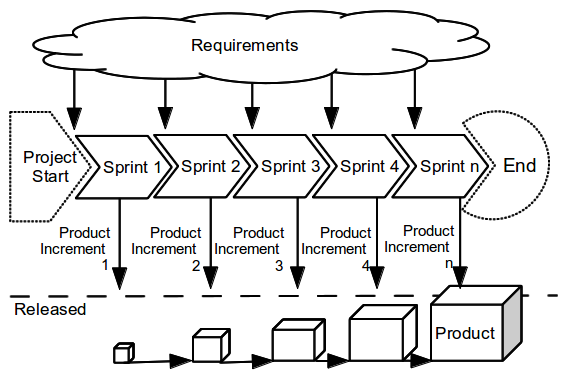
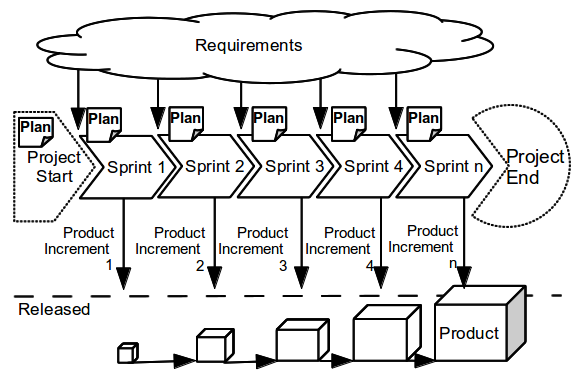
Update text in project managin chapter

Changed region(s): [[0.0, 0.0, 0.9947, 0.9894], [0.3316, 0.0873, 0.5426, 0.1455]]

diff --git a/content/scaling.tex b/content/scaling.tex
@@ -25,10 +25,21 @@ Para terminar una PBI o historia de usuario hay en la mayoría de los casos la n
 
 La ventaja de utilizar equipos de componentes es que es más fácil asegurar una determinada arquitectura del sistema. Por ejemplo si se quiere asegurar una Arquitectura SOA o una de Microservicios que está orientada a componentes. Esta idea está, entre otras cosas, basada en la "Ley de Conway"\footnote{Conway's Law \cite{Conway-1968} no es exactamente una ley, sino que es más bien una observación que Conway publicó en 1968.} que sugiere que las organizaciones pueden replicar su arquitectura en los productos que ellas producen \cite{Martin-Fowler-2014}. 
 
-Por otro lado, puede tener como desventaja que las personas se pueden especializar sólo en pequeñas partes del sistema y el conocimiento global sobre el sistema en su conjunto podría perderse \cite{Scrum-Institute-2015}. En este caso podría tener lugar una optimización local, ya que el equipo a veces puede tomar decisiones que están optimizados para el componente individual, pero las mejores soluciones desde una perspectiva del sistema total podrían haber sido desestimadas u oviadas.
+Por otro lado, puede tener como desventaja que las personas se pueden especializar sólo en pequeñas partes del sistema y el conocimiento global sobre el sistema en su conjunto podría perderse \cite{Scrum-Institute-2015}. En este caso podría tener lugar una optimización local, ya que el equipo a veces puede tomar decisiones que están optimizadas para el componente individual, pero las mejores soluciones desde una perspectiva del sistema total podrían haber sido desestimadas u oviadas.
+
+\section{Equipos mixtos}
+
+Tambien es posible la configuración de equipos mixtos que son la combinación de equipos de características y de componentes (ver figura \ref{fig:ScrumTeamsMix}).
+
+\begin{figure}[h]
+  \centering
+  \includegraphics[width=0.99\textwidth]{ScrumTeamsMix}
+  \caption{Ejemplo de equipos mixtos.}
+  \centering
+  \label{fig:ScrumTeamsMix} %\ref{fig:ScrumTeamsMix}
+\end{figure}
 
 \section{Scrum de Scrum}
 
 Scrum de Scrum es una forma de organización y técnica para escalar Scrum a grupos grandes de personas. Consiste en distinguir un integrante con el rol de Embajador, denominado "Ambassador", por cada Equipo Scrum \cite{Stefanini-2013}. El Embajador será quien participará en reuniones Daily con Embajadores de otros equipos. A esta reunión de Embajadores se la llama "Scrum de Scrum". Habitualmente se usa que el rol de Embajador lo desempeñe el Scrum Master, pero puede ser desempeñado por otro integrante del Equipo de Desarrollo. La reunión “Scrum de Scrum” se comporta como una Daily donde los Embajadores reportan la cituación de su equipo y sus impedimentos.
-
 

diff --git a/content/project_management.tex b/content/project_management.tex
@@ -5,7 +5,8 @@ Scrum es un marco de gestión de proyectos para el desarrollo incremental de pro
 
 
 \subsection{Proyecto Scrum}
-A diferencia de la metodología clásica (ver figura \ref{fig:PMIProject}) en que la planificación estaba al inicio y el desarrollo en la fase de ejecución, en este marco la planificación se distribuye durante todo el ciclo de vida del proyecto y en la fase de ejecución se hace el desarrollo incremental de productos (por incrementos de producto) en iteraciones cortas (Sprint) donde cada iteración tiene su respectiva planificación (ver figura \ref{fig:ScrumProject}).
+
+Un proyecto, en ingeniería de software, es un esfuerzo temporal que se lleva a cabo para crear un sistema, software o resultado único\footnote{Se parafrasea la definición del PMBOOK \cite{PMBOK-2004}.}. Los proyectos son organizados, en una empresa u organización, por el proceso de administración de proyectos. Según este proceso, el ciclo de vida de los proyectos se puede dividir en tres fases: inicio, ejecución y cierre (ver figura \ref{fig:PMIProject}). En la administración de proyectos es necesario planificar los proyectos y dicha actividad se suele hacer en la fase de inicio ("Starting phase" o "Project Start"). Pero, a diferencia de la metodología clásica (ver figura \ref{fig:PMIProject}) en que la planificación estaba siempre al inicio y el desarrollo en la fase de ejecución, en el marco Scrum la planificación se distribuye durante todo el ciclo de vida del proyecto y en la fase de ejecución se hace el desarrollo incremental de productos (por incrementos de producto) en iteraciones cortas (Sprint) donde cada iteración tiene su respectiva planificación (ver figura \ref{fig:ScrumProject}) y su incremento de producto, en caso de haberlo logrado.
 
 \begin{figure}[h]
   \centering
@@ -14,6 +15,8 @@ A diferencia de la metodología clásica (ver figura \ref{fig:PMIProject}) en qu
   \centering
   \label{fig:ScrumProject} %\ref{fig:ScrumProject}
 \end{figure}
+
+Entonces podemos decir que en Scrum se piensa en muchos planes periódicos (a corto plazo). Los mismo pueden estar en un plan mayor a largo plazo pero de carácter flexible. También se puede realizar un plan global de entregables en base a los incrementos de producto estimado. Pero, desde esta perspectiva, hay que considerar que aunque se trabaje con planificaciones, los planes no son contratos a respetara a rajatabla.
 
 %Triangle of Project Management
 \subsection{Triángulo de la Gestión de proyectos}
@@ -39,6 +42,5 @@ Para crear un plan de entregables se deben tener disponibles las siguientes cosa
 \item La velocidad estimada del Equipo Scrum.
 \item Las condiciones de satisfacción (metas para la agenda, el alcance, los recursos)
 \end{enumerate}
-
 
 

diff --git a/content/scrum_system.tex b/content/scrum_system.tex
@@ -98,4 +98,3 @@ Los artefactos ítems de trabajo fluyen desde que se definen en el Backlog de Pr
 \section{Reglas y Consideraciones}
 
 Además se establecen alguna consideraciones relacionadas a tiempos y tamaños. Se aconseja un tamaño de equipo de desarrollo mayor a 4 miembros y menor a diez (7 +- 2), o sea entre cinco y nueve. Por debajo de este número mínimo se tiene un equipo pobre que puede brindar un produto pobre y por sobre ese número máximo se aumenta la complejidad de gestión y coordinación del equipo disminuyendo el funcionamiento apropiado tras la metodología planteada. También se recomienda una duración de Sprint no mayor a un mes \cite{Ken-Jeff-2013}. La Reunión de Planificación de Sprint debería tener un máximo de duración de ocho horas para un Sprint de un mes. El Scrum Diario o "daily" es una reunión con un bloque de tiempo de 15 minutos para que el Equipo de Desarrollo sincronice sus actividades y cree un plan para el día. Por ejemplo, una daily de mayor de 15 minutos se puede considerar larga y en 15 minutos es complicado que mas de 15 personas puedan exponer lo que hiciero, lo que harán y si tienen bloqueos. Por eso se aconseja como máximo nueve personas en el eqiopo de desarrollo. En lo que concierne a la Revisión, el tiempo estipulado es de cuatro horas para Sprints de un mes o dos horas para uno de una quinsena. La reunión de Retrospectiva  debería estar restringida a un bloque de tiempo de tres horas para Sprints de un mes o  a una hora y media para los de una quinsena. Las reuniones de Planificación, Revisión y Retrospectiva deberían ser proporcionales a la duración del Sprint.
-
